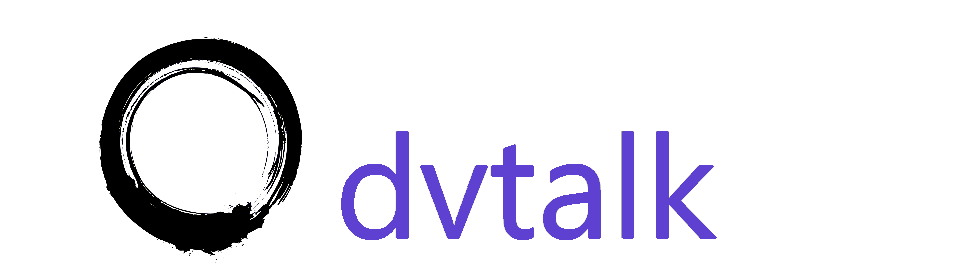
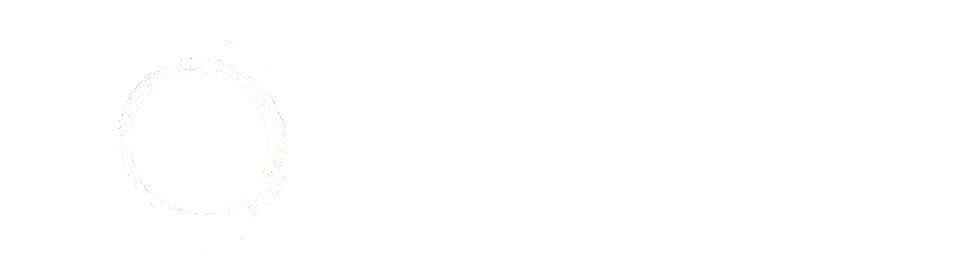
update 404

Changed region(s): [[0.3416, 0.4672, 0.7453, 0.8759], [0.0932, 0.146, 0.3106, 0.9343]]

diff --git a/assets/css/404_info.css b/assets/css/404_info.css
@@ -1,0 +1,174 @@
+/*--A Design by W3layouts
+Author: W3layout
+Author URL: http://w3layouts.com
+License: Creative Commons Attribution 3.0 Unported
+License URL: http://creativecommons.org/licenses/by/3.0/
+*/
+/* reset */
+html,body,div,span,applet,object,iframe,h1,h2,h3,h4,h5,h6,p,blockquote,pre,a,abbr,acronym,address,big,cite,code,del,dfn,em,img,ins,kbd,q,s,samp,small,strike,strong,sub,sup,tt,var,b,u,i,dl,dt,dd,ol,nav ul,nav li,fieldset,form,label,legend,table,caption,tbody,tfoot,thead,tr,th,td,article,aside,canvas,details,embed,figure,figcaption,footer,header,hgroup,menu,nav,output,ruby,section,summary,time,mark,audio,video{margin:0;padding:0;border:0;font-size:100%;font:inherit;vertical-align:baseline;}
+article, aside, details, figcaption, figure,footer, header, hgroup, menu, nav, section {display: block;}
+ol,ul{list-style:none;margin:0;padding:0;}
+blockquote,q{quotes:none;}
+blockquote:before,blockquote:after,q:before,q:after{content:'';content:none;}
+table{border-collapse:collapse;border-spacing:0;}
+
+/* start editing from here */
+a{text-decoration:none;}
+.txt-rt{text-align:right;}/* text align right */
+.txt-lt{text-align:left;}/* text align left */
+.txt-center{text-align:center;}/* text align center */
+.float-rt{float:right;}/* float right */
+.float-lt{float:left;}/* float left */
+.clear{clear:both;}/* clear float */:
+.pos-relative{position:relative;}/* Position Relative */
+.pos-absolute{position:absolute;}/* Position Absolute */
+.vertical-base{	vertical-align:baseline;}/* vertical align baseline */
+.vertical-top{	vertical-align:top;}/* vertical align top */
+.underline{	padding-bottom:5px;	border-bottom: 1px solid #eee; margin:0 0 20px 0;}/* Add 5px bottom padding and a underline */
+nav.vertical ul li{	display:block;}/* vertical menu */
+nav.horizontal ul li{	display: inline-block;}/* horizontal menu */
+img{max-width:100%;}
+/*end reset*/
+body{
+  font-family: 'Strait', sans-serif;
+  background: #340030;
+}
+.wrap{
+  height:750px;
+  margin: 0 auto;
+  position: relative;
+}
+h1{
+  color: #fff;
+  font-size: 30px;
+  padding: 30px;
+}
+.banner{
+  width: 343px;
+  margin: 100px auto 0 auto ;
+}
+.banner img{
+}
+
+.search404{
+  font-family: 'Strait', sans-serif;
+  width:300px;
+  margin:40px auto 0 auto; 
+  position: relative;
+  color: #ffffff;
+}
+.search404 input[type="text"]{
+  font-family: 'Strait', sans-serif;
+  background: #491c47;
+  padding:6px 30px 6px 6px;
+  width: 250px;
+  border:none;
+  color: #986595;
+  font-size: 18px;
+  outline: none;
+}
+.search404 input[type="submit"]{
+  background: url(../images/sub-bttn.png); width: 32px;
+  height: 51px;
+  border: none;
+  position: absolute;
+  right:-8px;
+  top: -10px;
+  cursor: pointer;
+}
+.copy{
+  position: absolute;
+  right: 10px;
+  bottom: 10px;
+  color: #744971;
+
+}
+.copy a{
+  color: #fff;
+}
+/*--responsive--*/
+
+@media(max-width:800px){
+	.copy {
+		position: absolute;
+		right: 138px;
+		bottom: 42px;
+		color: #744971;
+	}
+}
+@media(max-width:768px){
+	.copy {
+		position: absolute;
+		right: 138px;
+		bottom: 42px;
+		color: #744971;
+	}
+	.copy {
+		position: absolute;
+		right: 97px;
+	}
+}
+@media(max-width:600px){
+	.copy {
+    position: absolute;
+    right: 97px;
+    bottom: 79px;
+	}
+}
+@media(max-width:568px){
+	
+}
+@media(max-width:480px){
+	.copy {
+		position: absolute;
+		right: 49px;
+		bottom: 80px;
+	}
+}
+@media(max-width:440px){
+	.copy {
+		position: absolute;
+		right: 19px;
+		bottom: 80px;
+	}
+}
+@media(max-width:414px){
+	.banner {
+		width: 164px;
+		margin: 100px auto 0 auto;
+	}
+	.search404 input[type="text"] {
+		padding: 6px 30px 6px 6px;
+		width: 222px;
+	}
+	.search404 input[type="submit"] {
+		right: 19px;
+		top: -10px;
+		cursor: pointer;
+	}
+	.copy {
+		position: absolute;
+		right: 19px;
+		bottom: 80px;
+		text-align: center;
+	}
+	
+}
+@media(max-width:384px){
+	.wrap {
+      height: 599px;
+	}
+	.banner {
+		width: 164px;
+		margin: 47px auto 0 auto;
+	}
+}
+@media(max-width:375px){
+	.wrap {
+		height: 565px;
+	}
+}
+@media(max-width:320px){
+	
+}
+/*--//responsive--*/

diff --git a/_layouts/404.html b/_layouts/404.html
@@ -1,0 +1,25 @@
+<!--A Design by W3layouts
+Author: W3layout
+Author URL: http://w3layouts.com
+License: Creative Commons Attribution 3.0 Unported
+License URL: http://creativecommons.org/licenses/by/3.0/
+-->
+<!DOCTYPE HTMl>
+<html>
+<head>
+<title> Page not found </title>
+<meta name="viewport" content="width=device-width, initial-scale=1, maximum-scale=1">
+<link rel="stylesheet" href="assets/css/404_info.css" type="text/css" media="all" />
+<link href='//fonts.googleapis.com/css?family=Strait' rel='stylesheet' type='text/css'>
+<meta name="viewport" content="width=device-width, initial-scale=1, maximum-scale=1" />
+<script type="application/x-javascript"> addEventListener("load", function() { setTimeout( hideURLbar, 0); }, false); function hideURLbar(){ window.scrollTo(0,1); } </script>
+</head>
+<body>
+  <div class="wrap">
+    <!-- <h1>dvtalk.github.io</h1> -->
+    <div class="banner"> <a href="{{ '/' | absolute_url }}"</a><img src="assets/images/dvtalk_inv.png" alt="" /></div>
+    <div class="search404"> Head back mate. It's darkening out here </div>
+  </div>
+</body>
+</html>
+

diff --git a/404.html b/404.html
@@ -1,10 +1,16 @@
 ---
-layout: default
+layout: 404
 title: Page not found
 permalink: /404
 nav_exclude: true
 search_exclude: true
 ---
+
+<style>
+div {
+  background-color: #000000;
+}
+</style>
 
 <h1>Page not found</h1>
 

diff --git a/_posts/x_myrandoms/2020-07-13-linux-env-randoms.md b/_posts/x_myrandoms/2020-07-13-linux-env-randoms.md
@@ -8,6 +8,7 @@ permalink: /docs/randoms/linux_env_randoms
 ---
 
 
-# Random posts about linux env
+# Linux Env Randoms
+Random posts about linux env
 {: .fs-5 .fw-500 }
 

diff --git a/_posts/x_myrandoms/2020-07-13-uvm-randoms.md b/_posts/x_myrandoms/2020-07-13-uvm-randoms.md
@@ -8,6 +8,6 @@ permalink: /docs/randoms/uvm_randoms
 ---
 
 # UVM Randoms
-It's randoms of vim
-{: .fs-6 .fw-300 }
+Random posts about uvm
+{: .fs-5 .fw-500 }
 
